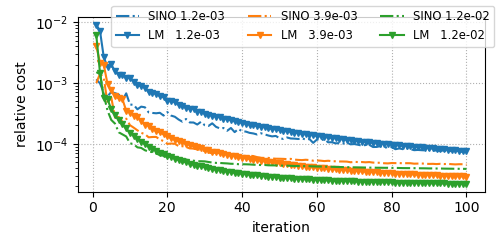
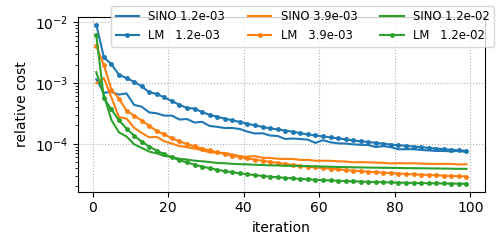
polish figures

diff --git a/docs/mic2021/plot_2d_pet_tv.py b/docs/mic2021/plot_2d_pet_tv.py
@@ -40,30 +40,38 @@ vmax = 1.2*img.max()
 
 sl = (slice(8,-8,None),slice(18,-18,None))
 
-fig, ax = plt.subplots(4,len(gammas)+1, figsize = (0.8*3*(len(gammas)+1),12))
+fig, ax = plt.subplots(4,len(gammas)+1, figsize = (0.6*3*(len(gammas)+1),12), constrained_layout=True)
 for i,gam in enumerate(gammas):
-  ax[0,i].imshow(x_sino[i,...].squeeze()[sl], vmin = 0, vmax = vmax, cmap = plt.cm.Greys)
-  ax[1,i].imshow(x_lm[i,...].squeeze()[sl],   vmin = 0, vmax = vmax, cmap = plt.cm.Greys)
+  i0 = ax[0,i].imshow(x_sino[i,...].squeeze()[sl], vmin = 0, vmax = vmax, cmap = plt.cm.Greys)
+  i1 = ax[1,i].imshow(x_lm[i,...].squeeze()[sl],   vmin = 0, vmax = vmax, cmap = plt.cm.Greys)
 
-  ax[2,i].imshow(x_sino[i,...].squeeze()[sl] - ref_recon.squeeze()[sl], 
+  i2 = ax[2,i].imshow(x_sino[i,...].squeeze()[sl] - ref_recon.squeeze()[sl], 
                  vmin = -0.1*vmax, vmax = 0.1*vmax, cmap = plt.cm.bwr)
-  ax[3,i].imshow(x_lm[i,...].squeeze()[sl] - ref_recon.squeeze()[sl],   
+  i3 = ax[3,i].imshow(x_lm[i,...].squeeze()[sl] - ref_recon.squeeze()[sl],   
                  vmin = -0.1*vmax, vmax = 0.1*vmax, cmap = plt.cm.bwr)
+
+  #fig.colorbar(i0, ax = ax[0,i], shrink = 0.5, location = 'bottom')
+  fig.colorbar(i1, ax = ax[1,i], shrink = 0.5, location = 'bottom')
+  #fig.colorbar(i2, ax = ax[2,i], shrink = 0.5, location = 'bottom')
+  fig.colorbar(i3, ax = ax[3,i], shrink = 0.5, location = 'bottom')
 
   ax[0,i].set_title(f'SPDHG {gam:.1e}', fontsize = 'medium', color = plt.get_cmap("tab10")(i))
   ax[1,i].set_title(f'LM-SPDHG {gam:.1e}', fontsize = 'medium', color = plt.get_cmap("tab10")(i))
   ax[2,i].set_title(f'diff. SPDHG {gam:.1e}', fontsize = 'medium', color = plt.get_cmap("tab10")(i))
   ax[3,i].set_title(f'diff. LM-SPDHG {gam:.1e}', fontsize = 'medium', color = plt.get_cmap("tab10")(i))
 
-ax[0,-1].imshow(ref_recon.squeeze()[sl], vmin = 0, vmax = vmax, cmap = plt.cm.Greys)
-ax[1,-1].imshow(img.squeeze()[sl],       vmin = 0, vmax = vmax, cmap = plt.cm.Greys)
+i01 = ax[0,-1].imshow(ref_recon.squeeze()[sl], vmin = 0, vmax = vmax, cmap = plt.cm.Greys)
+i11 = ax[1,-1].imshow(img.squeeze()[sl],       vmin = 0, vmax = vmax, cmap = plt.cm.Greys)
+#fig.colorbar(i01, ax = ax[0,-1], shrink = 0.5, location = 'bottom')
+fig.colorbar(i11, ax = ax[1,-1], shrink = 0.5, location = 'bottom')
+
 ax[0,-1].set_title(f'reference PDHG', fontsize = 'medium')
 ax[1,-1].set_title(f'ground truth', fontsize = 'medium')
 
 for axx in ax.ravel():
   axx.set_axis_off()
 
-fig.tight_layout()
+#fig.tight_layout()
 fig.show()
 
 c_ref = cost_ref.min()
@@ -73,9 +81,9 @@ ni    = np.arange(niter) + 1
 fig2, ax2 = plt.subplots(1,1, figsize = (5,2.5))
 for ig, gam in enumerate(gammas):
   col = plt.get_cmap("tab10")(ig)
-  ax2.semilogy(ni, (cost_spdhg_sino[ig,:] - c_ref)/n, '-.', ms = 5,
+  ax2.semilogy(ni[::2], ((cost_spdhg_sino[ig,:] - c_ref)/n)[::2], '-', ms = 5,
                label = f'SINO {gam:.1e}',color = col)
-  ax2.semilogy(ni, (cost_spdhg_lm[ig,:] - c_ref)/n, '-v', ms = 5, 
+  ax2.semilogy(ni[::2], ((cost_spdhg_lm[ig,:] - c_ref)/n)[::2], '-o', ms = 2.5, 
                label = f'LM   {gam:.1e}', color = col)
 
 ax2.grid(ls = ':')
